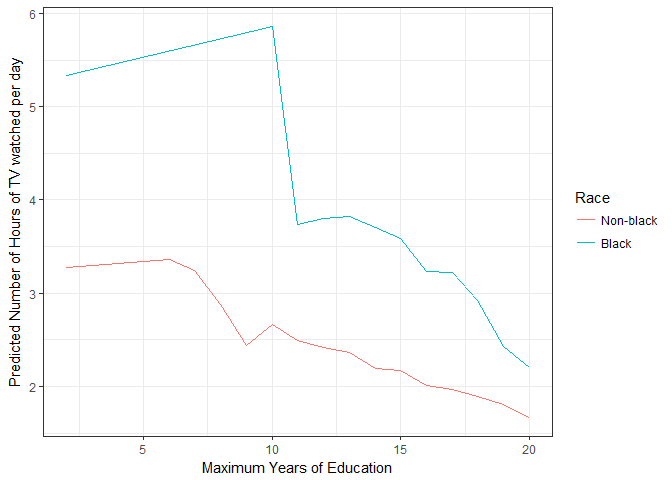
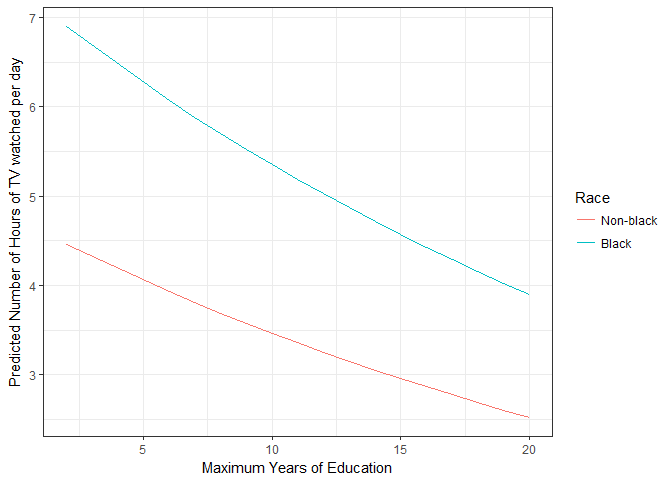
PS6 done

diff --git a/students/Lim_ChengYee/PS6/voter_turnout.md b/students/Lim_ChengYee/PS6/voter_turnout.md
@@ -297,11 +297,7 @@ From the regression results, we can identify that the mental health, age, educat
 
 ``` r
 coeff_1 <- exp(coef(voter))
-coeff_1[3]
 ```
-
-    ##      age 
-    ## 1.043409
 
 For a one unit increase in the mental health index (more depressed), the odds of voting (versus not voting) changes by a factor of 0.9148215, given that the rest of the variables remain unchanged.
 
@@ -376,17 +372,6 @@ health1 %>%
 ```
 
 ![](voter_turnout_files/figure-markdown_github/unnamed-chunk-13-1.png)
-
-``` r
-health_acc <- health %>% 
-  add_predictions(voter) %>% 
-  mutate(pred = logit2prob(pred), 
-         pred = as.numeric(pred > .5))
-
-mean(health_acc$vote96 == health_acc$pred)
-```
-
-    ## [1] 0.7236052
 
 Part 2: Modelling TV Consumption
 --------------------------------
@@ -477,25 +462,24 @@ summary(tv_hours)
 From the regression results, we can identify that only `educ`, `hrsrelax`, and `black` are statistically significant at a 5% significance level. Since we used a multivariate poisson regression, the effects of variables will be calculated as exponential of the estimated parameters.
 
 ``` r
-exp(coef(tv_hours))
+coeff_2 <- exp(coef(tv_hours))
 ```
-
-    ##    (Intercept)            age         childs           educ         female 
-    ##      2.7448471      1.0014471      0.9954415      0.9688250      1.0261341 
-    ##       hrsrelax          black social_connect        voted04         xmovie 
-    ##      1.0475241      1.5456117      1.0451722      0.9038732      1.0942512
 
 #### Education and Ethnicity
 
-For a one year increase in maximum years of schooling, the number of TV hours watched per day is expected to decrease by a factor of 0.973, given the rest of the variables in the model are held constant. The decline in hours of TV watched per day as maximum education years increase can also be shown in by the overall decreasing trend in the line graphs below. This trend is also valid across black and non-black ethnicities
+For a one year increase in maximum years of schooling, the number of TV hours watched per day is expected to decrease by a factor of 0.968825, given the rest of the variables in the model are held constant. The decline in hours of TV watched per day as maximum education years increase can also be shown in by the overall decreasing trend in the line graphs below. This trend is also valid across black and non-black ethnicities
 
-Furthermore, a black individual is, on average, expected to change by a factor of 1.54 more hours of TV per day than a non-black individual, given that the rest of the variables in the model are held constant. The differential between hours of TV watched by an average black and non-black individual can be visualized with the disparity between the blue and red lines.
+Furthermore, a black individual is, on average, expected to change by a factor of 1.5456117 more hours of TV per day than a non-black individual, given that the rest of the variables in the model are held constant. The differential between hours of TV watched by an average black and non-black individual can be visualized with the disparity between the blue and red lines.
 
 ``` r
-gss %>%
+gss1 <- gss %>%
+  data_grid(age, childs, educ, female, hrsrelax, black, social_connect, voted04, xmovie) %>%
   add_predictions(tv_hours) %>%
+  mutate(pred = exp(pred))
+  
+gss1 %>%
   group_by(educ, black) %>% 
-  summarize(pred = mean(exp(pred))) %>%
+  summarize(pred = mean(pred)) %>%
   ggplot(aes(x = educ, y = pred)) +
   geom_line(aes(color = factor(black))) +
   labs(y = "Predicted Number of Hours of TV watched per day", 
@@ -509,17 +493,14 @@ gss %>%
 
 #### Taste and Preferences
 
-Unsurprisingly, according to the regression results, individuals who devote more time to relaxation per day are more likely to watch more hours of television. For an hour increase in hours the respondent has to relax, the number of TV hours watched per day is expected to increase by a factor of 1.048, given the rest of the variables in the model are held constant.
+Unsurprisingly, according to the regression results, individuals who devote more time to relaxation per day are more likely to watch more hours of television. For an hour increase in hours the respondent has to relax, the number of TV hours watched per day is expected to increase by a factor of 1.0475241, given the rest of the variables in the model are held constant.
 
 ``` r
-gss %>%
-  data_grid(age, childs, educ, female, hrsrelax, black, social_connect, voted04, xmovie) %>%
-  add_predictions(tv_hours) %>%
-  mutate(pred = exp(pred)) %>%
-  #group_by(hrsrelax) %>% 
-  #summarize(pred = mean(exp(pred))) %>%
+gss1 %>%
+  group_by(hrsrelax) %>% 
+  summarize(pred = mean(pred)) %>%
   ggplot(aes(x = hrsrelax, y = pred)) +
-  geom_point() +
+  geom_line() +
   labs(y = "Predicted Number of Hours of TV watched per day", 
        x = "Hours per day Respondent has to Relax")
 ```
